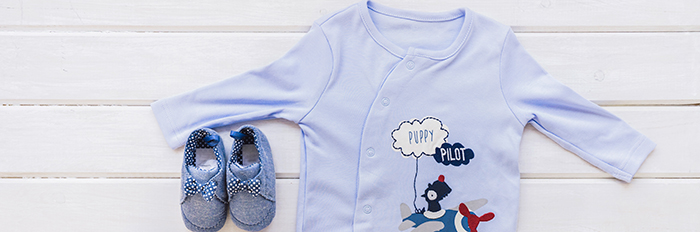
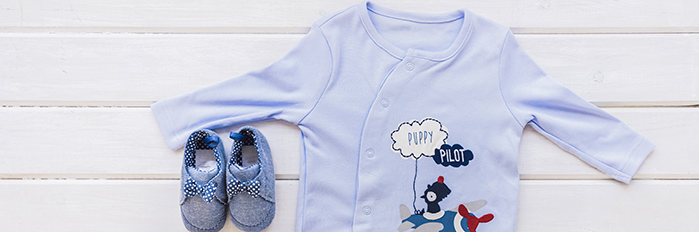
add fix

diff --git a/apliinstagram/index.html b/apliinstagram/index.html
@@ -261,46 +261,48 @@
 
 
       <footer>
-        <div class="row">
-          <div class="col-md-3">
-            <ul class="footer_list">
-              <li><a href="">О нас</a></li>
-              <li><a href="">Помощь покупателям</a></li>
-              <li><a href="">Как продавать</a></li>
-              <li><a href="">Участие в офлайн-маркете</a></li>
-              <li><a href="">Требования к магазинам</a></li>
-              <li><a href="">Правила сайта</a></li>
-              <li><a href="">Политика конфиденциальности</a></li>
-            </ul>
-          </div>
-          <div class="col-md-2 col-md-offset-2">
-            <ul class="footer_list">
-              <li><a href="">Женщинам</a></li>
-              <li><a href="">Мужчинам</a></li>
-              <li><a href="">Детям</a></li>
-              <li><a href="">Дом и быт</a></li>
-              <li><a href="">Аксессуары</a></li>
-              <li><a href="">Еда и напитки</a></li>
-              <li><a href="">Контакты</a></li>
-            </ul>
-          </div>
-          <div class="col-md-4 col-md-offset-1">
-            <p>Следите за нами в социальных сетях</p>
-            <div class="social">
-              <a target="_blank" href=""><img src="assets/img/network/facebook.svg" alt=""></a>
-              <a target="_blank" href=""><img src="assets/img/network/instagram.svg" alt=""></a>
-              <a target="_blank" href=""><img src="assets/img/network/telegram.svg" alt=""></a>
-              <a target="_blank" href=""><img src="assets/img/network/what.svg" alt=""></a>
-              <a target="_blank" href=""><img src="assets/img/network/vk.svg" alt=""></a>
+        <div class="container">
+          <div class="row">
+            <div class="col-md-3">
+              <ul class="footer_list">
+                <li><a href="">О нас</a></li>
+                <li><a href="">Помощь покупателям</a></li>
+                <li><a href="">Как продавать</a></li>
+                <li><a href="">Участие в офлайн-маркете</a></li>
+                <li><a href="">Требования к магазинам</a></li>
+                <li><a href="">Правила сайта</a></li>
+                <li><a href="">Политика конфиденциальности</a></li>
+              </ul>
+            </div>
+            <div class="col-md-2 col-md-offset-2">
+              <ul class="footer_list">
+                <li><a href="">Женщинам</a></li>
+                <li><a href="">Мужчинам</a></li>
+                <li><a href="">Детям</a></li>
+                <li><a href="">Дом и быт</a></li>
+                <li><a href="">Аксессуары</a></li>
+                <li><a href="">Еда и напитки</a></li>
+                <li><a href="">Контакты</a></li>
+              </ul>
+            </div>
+            <div class="col-md-4 col-md-offset-1">
+              <p>Следите за нами в социальных сетях</p>
+              <div class="social">
+                <a target="_blank" href=""><img src="assets/img/network/facebook.svg" alt=""></a>
+                <a target="_blank" href=""><img src="assets/img/network/instagram.svg" alt=""></a>
+                <a target="_blank" href=""><img src="assets/img/network/telegram.svg" alt=""></a>
+                <a target="_blank" href=""><img src="assets/img/network/what.svg" alt=""></a>
+                <a target="_blank" href=""><img src="assets/img/network/vk.svg" alt=""></a>
+              </div>
             </div>
           </div>
-        </div>
-        <div class="copy">
-          <div class="col-md-2 col-md-offset-5">
-            &copy;2018OnlineStore
-          </div>
-          <div class="col-md-4 col-md-offset-1">
-            Design&amp;Development by <a target="_blank" href="">IS.Agency</a>
+          <div class="copy">
+            <div class="col-md-2 col-md-offset-5">
+              &copy;2018OnlineStore
+            </div>
+            <div class="col-md-4 col-md-offset-1">
+              Design&amp;Development by <a target="_blank" href="">IS.Agency</a>
+            </div>
           </div>
         </div>
       </footer>

diff --git a/apliinstagram/assets/css/style.less b/apliinstagram/assets/css/style.less
@@ -205,7 +205,9 @@ ol, ul {
 		}				
 		img {
 			min-width: 100%;
-			height: 100vh;				
+			min-height: 100vh;
+			width: auto;
+			height: auto;				
 		}
 		.main_text_wrapper {
 			position: absolute;
@@ -402,10 +404,9 @@ ol, ul {
 footer {
 	position: relative;
 	width: 100%;
-	height: 500px;
-	margin-top: 140px;
-	margin-bottom: 30px;
-	padding: 0 40px;
+	height: auto;
+	margin-top: 140px;	
+	// padding: 0 40px;
 	background-color: rgba(0, 0, 0, 0.75);
 	.row {
 		padding-top: 60px;
@@ -426,10 +427,13 @@ footer {
 	}	
 	.social {		
 		margin-top: 30px;
+		width: 100%;
+		display: inline-flex;
+		justify-content: space-between;
 		img {
 			width: 45px;
 			height: 45px;
-			margin-right: 15px;
+			// margin-right: 15px;
 		}
 	}
 	p {
@@ -438,7 +442,9 @@ footer {
 	.copy {
 		color: @white;
 		overflow: hidden;
-		margin-top: 105px;		
+		margin-top: 105px;
+		padding-bottom: 40px;
+		line-height: 20px;		
 		a {
 			text-decoration: underline;
 			cursor: pointer;

diff --git a/apliinstagram/assets/css/style.css b/apliinstagram/assets/css/style.css
@@ -195,7 +195,9 @@ ul {
 }
 .main_block img {
   min-width: 100%;
-  height: 100vh;
+  min-height: 100vh;
+  width: auto;
+  height: auto;
 }
 .main_block .main_text_wrapper {
   position: absolute;
@@ -363,10 +365,8 @@ ul {
 footer {
   position: relative;
   width: 100%;
-  height: 500px;
+  height: auto;
   margin-top: 140px;
-  margin-bottom: 30px;
-  padding: 0 40px;
   background-color: rgba(0, 0, 0, 0.75);
 }
 footer .row {
@@ -386,11 +386,13 @@ footer .footer_list li a:hover {
 }
 footer .social {
   margin-top: 30px;
+  width: 100%;
+  display: inline-flex;
+  justify-content: space-between;
 }
 footer .social img {
   width: 45px;
   height: 45px;
-  margin-right: 15px;
 }
 footer p {
   color: #ffffff;
@@ -399,6 +401,8 @@ footer .copy {
   color: #ffffff;
   overflow: hidden;
   margin-top: 105px;
+  padding-bottom: 40px;
+  line-height: 20px;
 }
 footer .copy a {
   text-decoration: underline;
